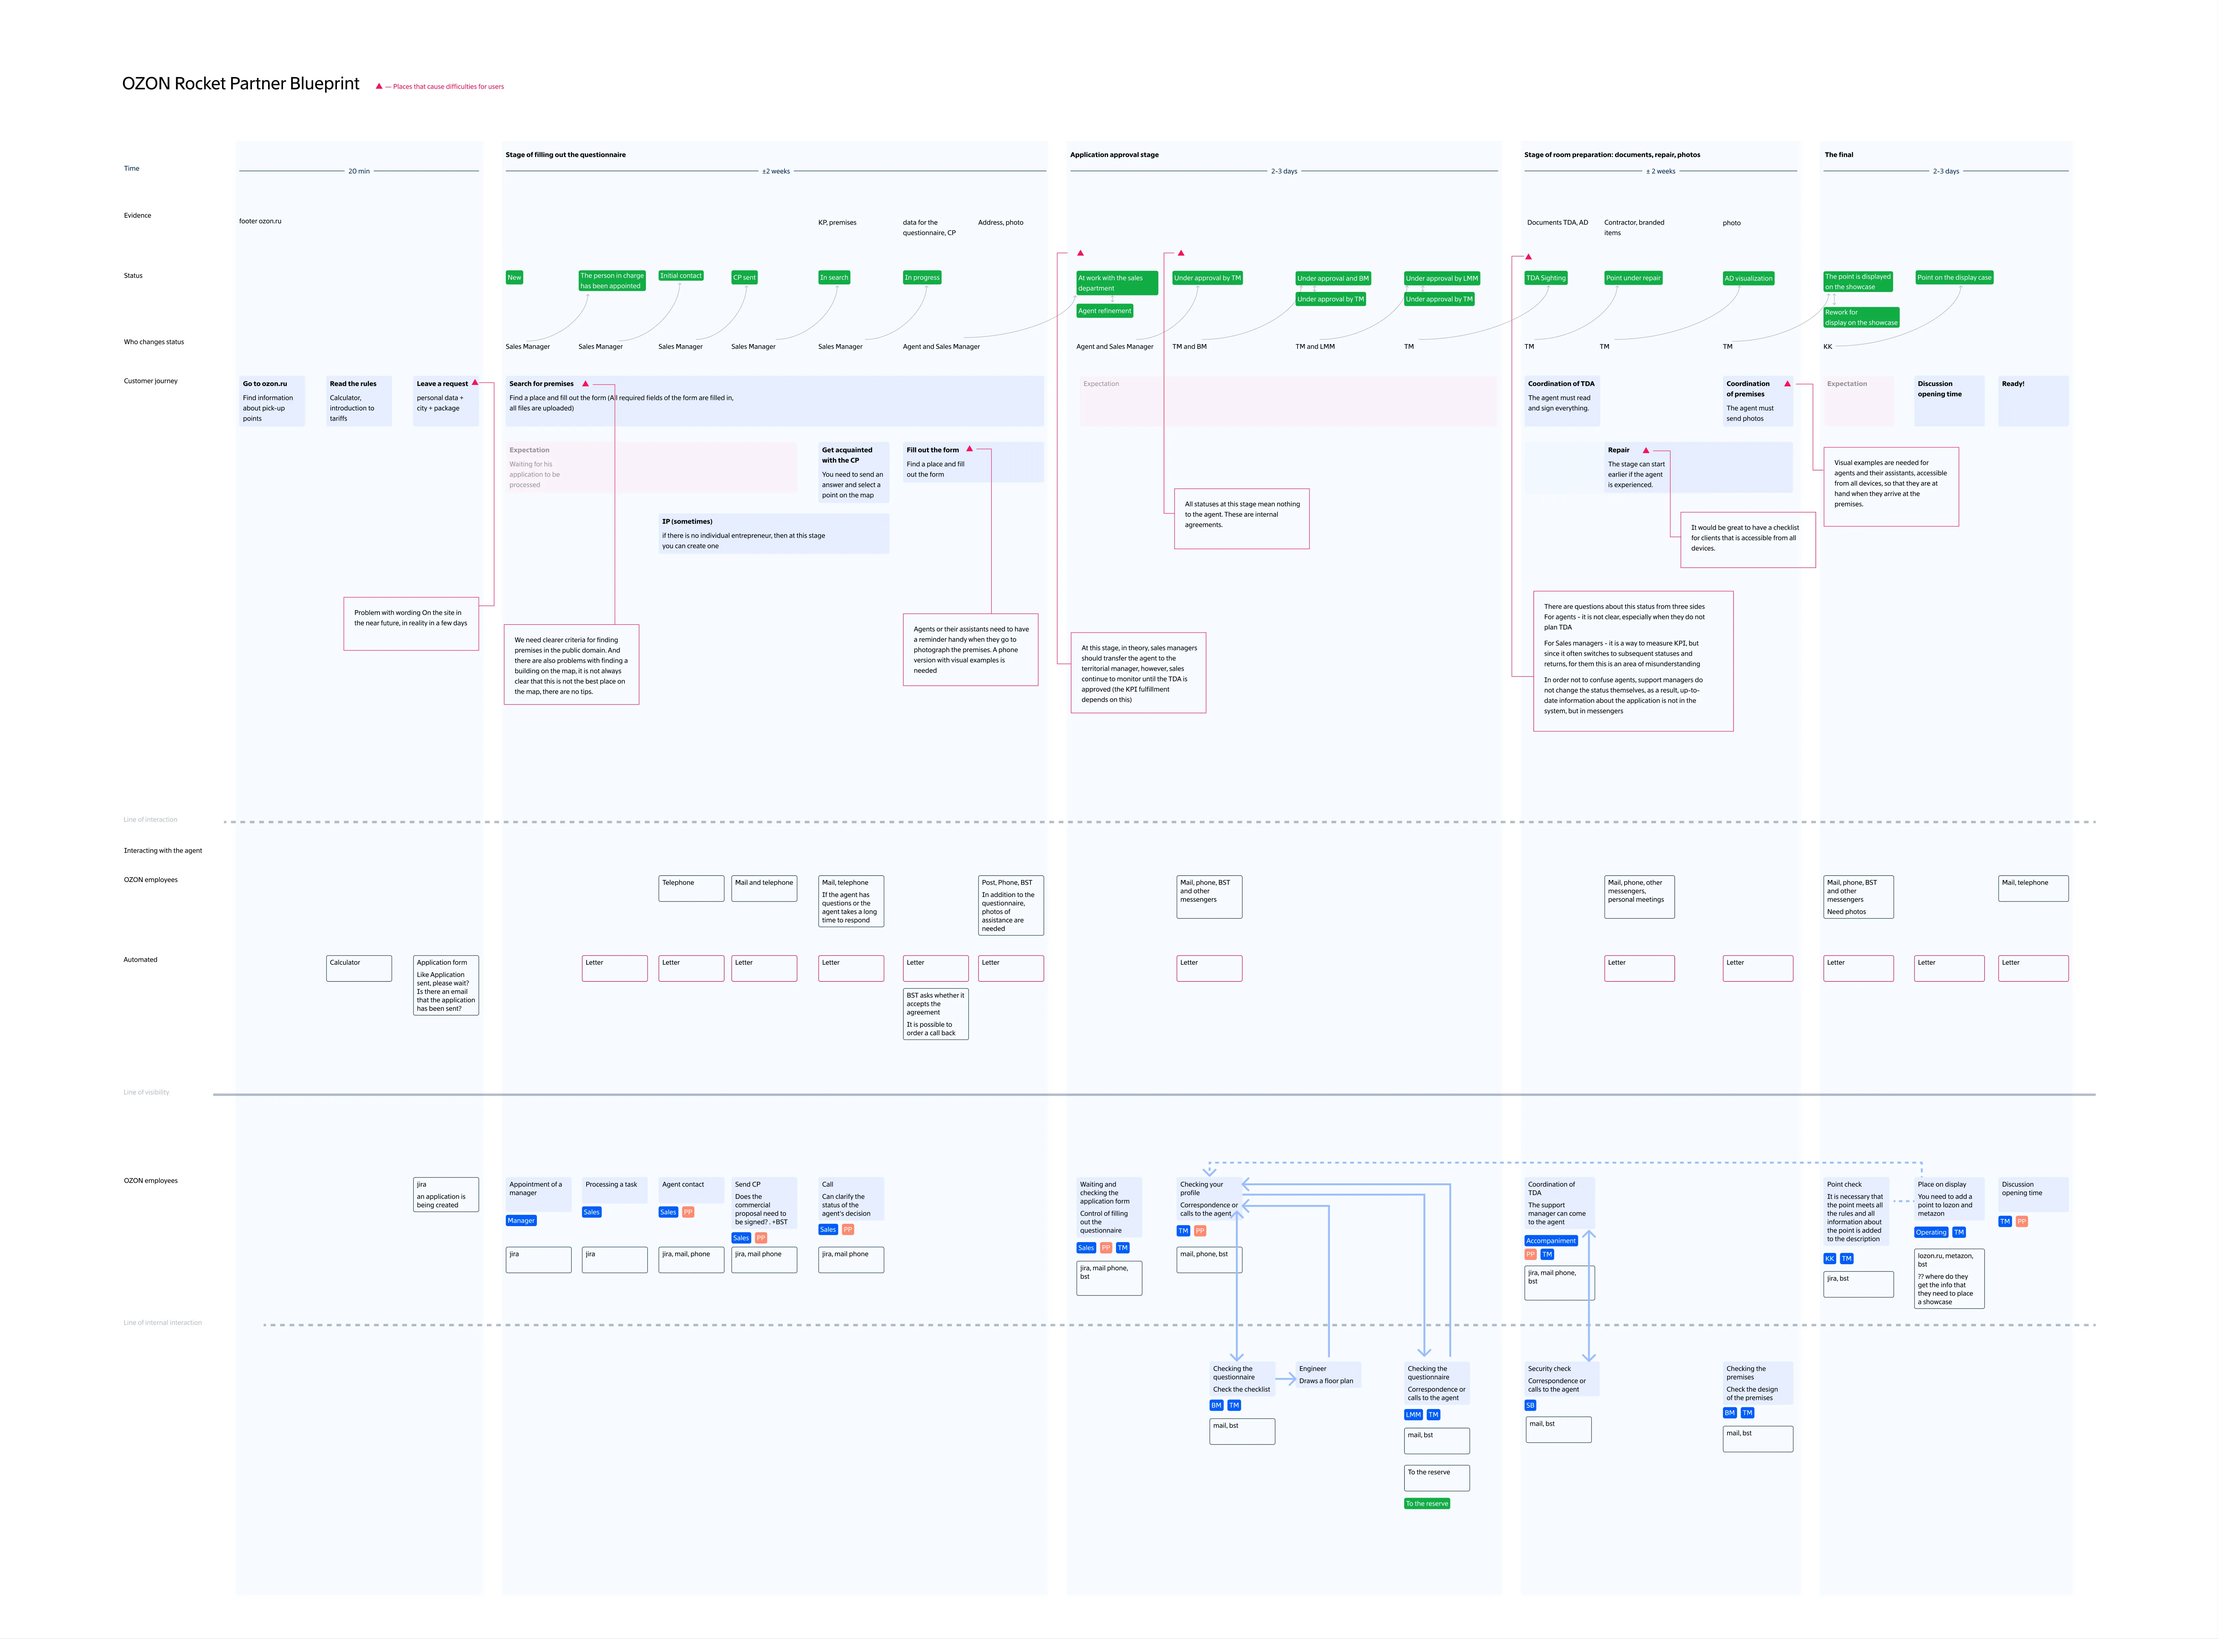
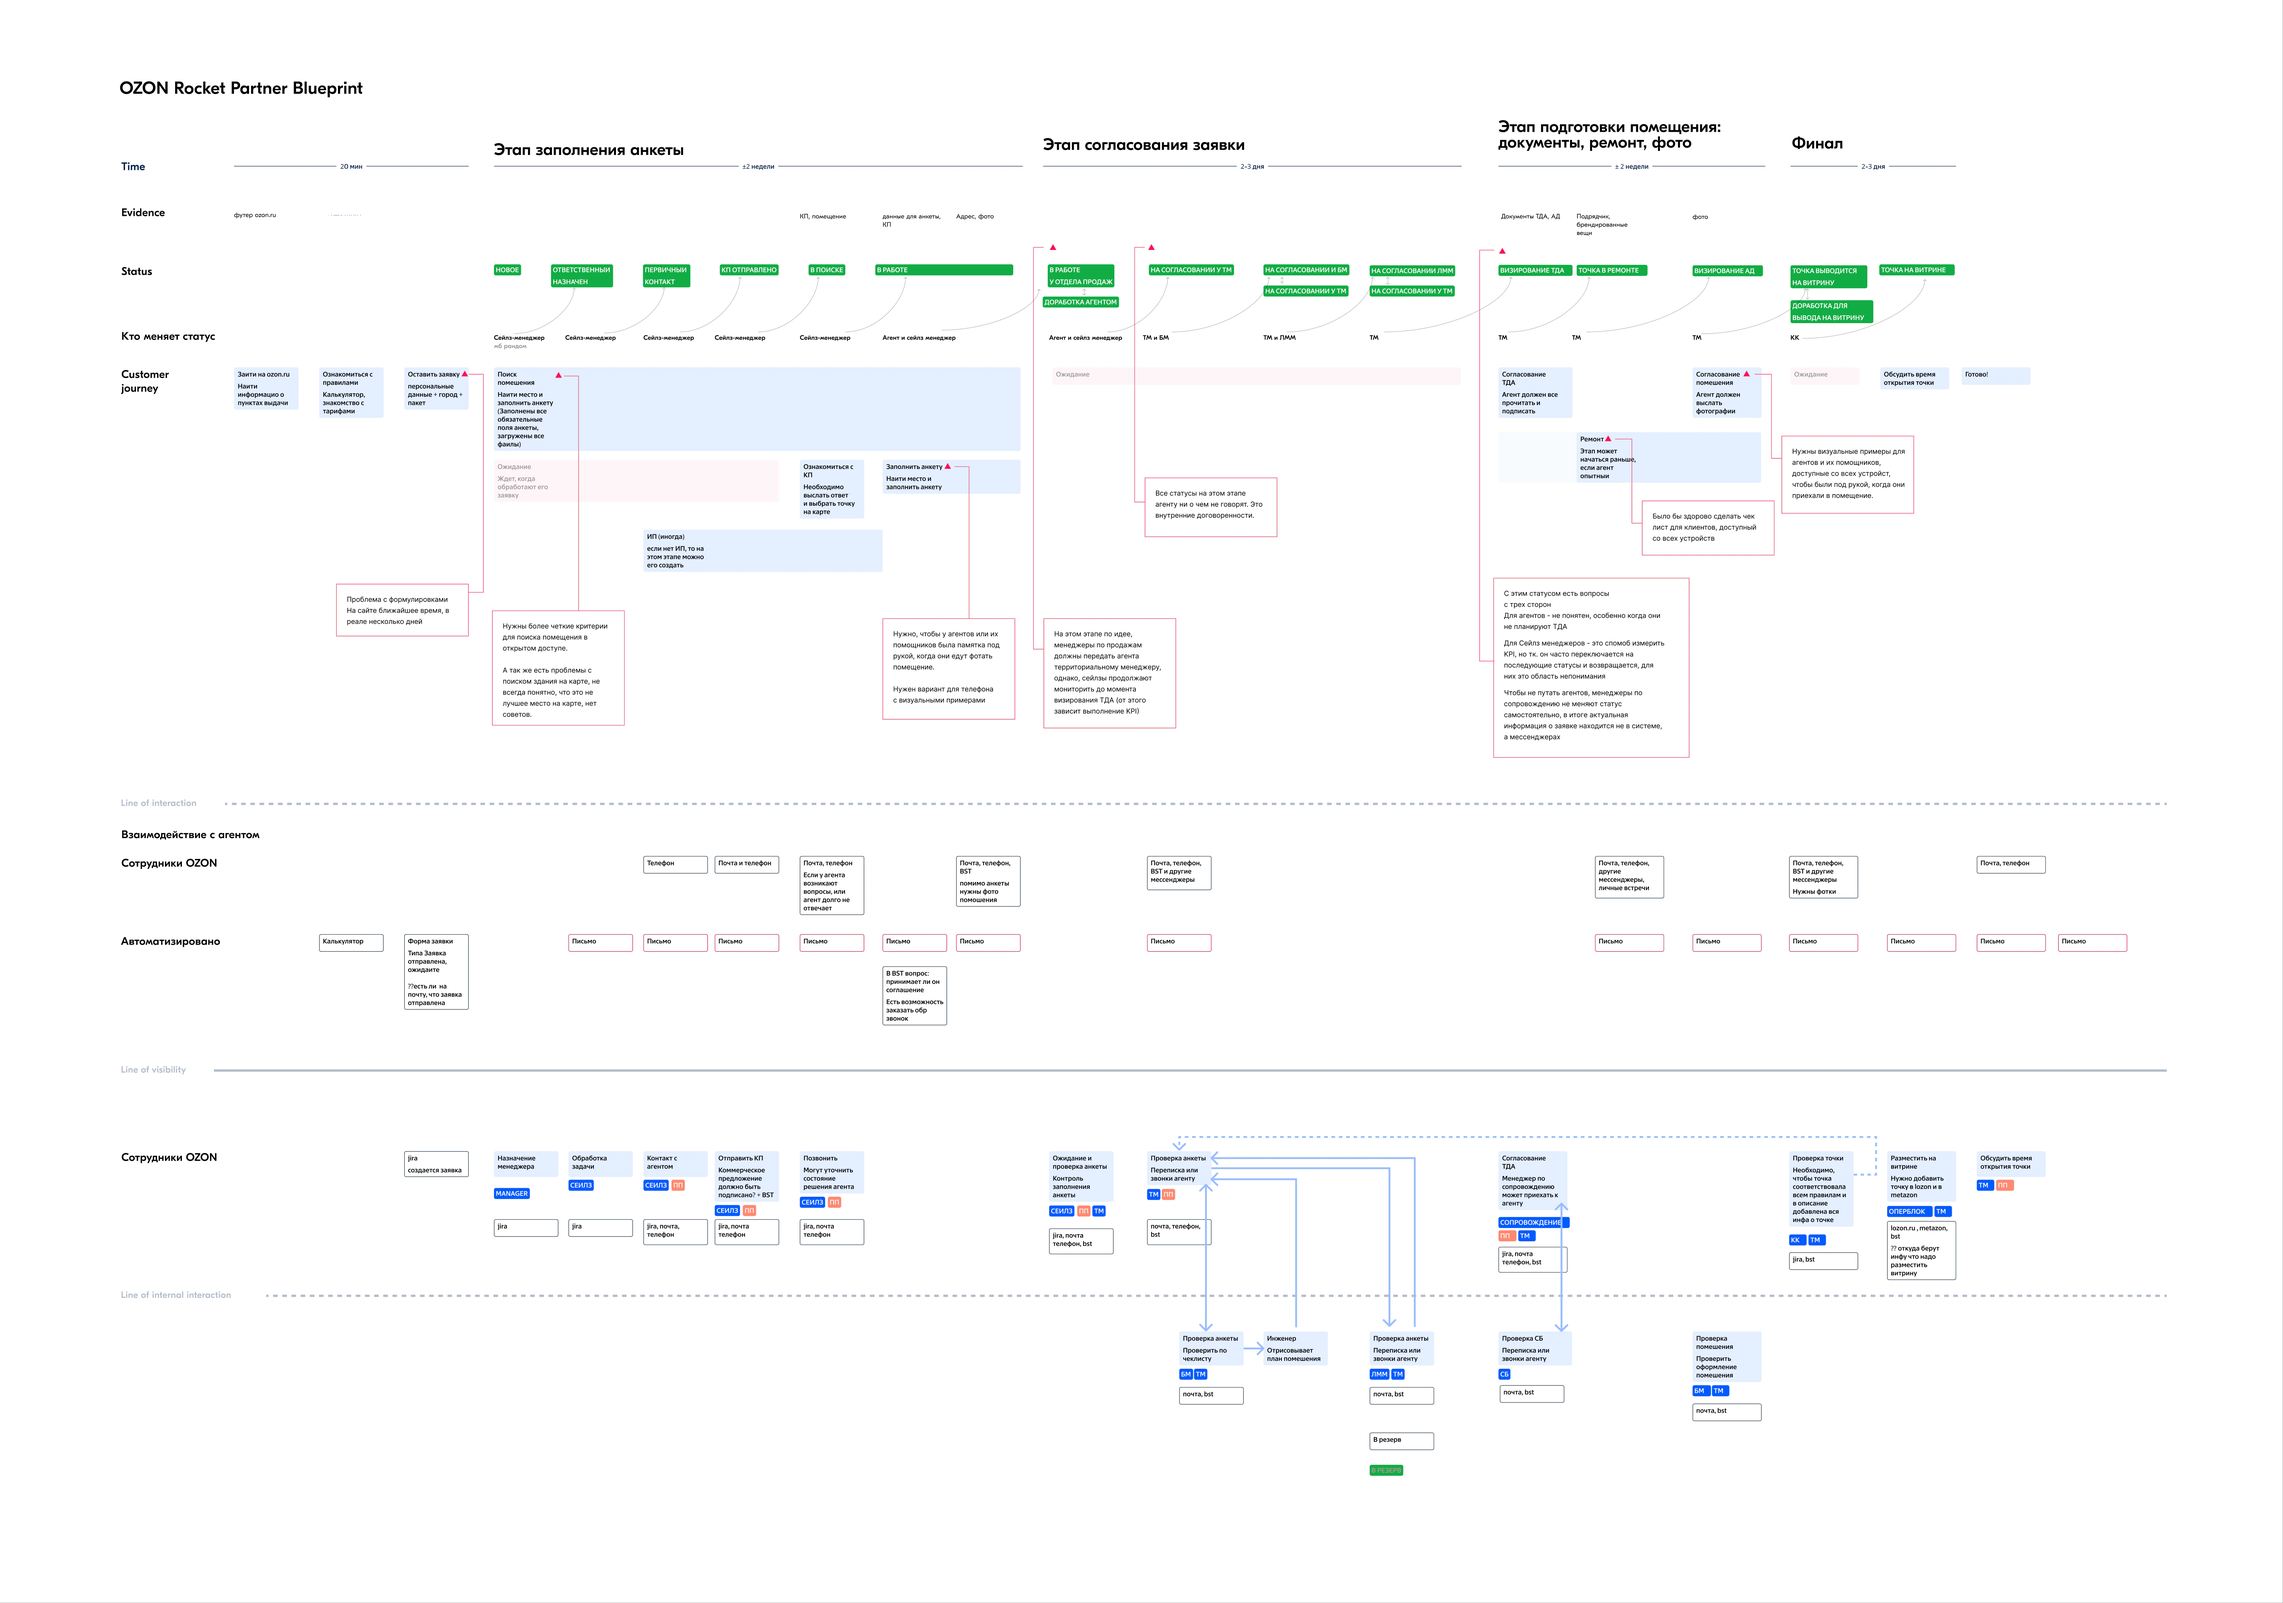
feat(ozon): Open the Russian Service Blueprint from the Research preview

diff --git a/cases/ozon-pickup-point.html b/cases/ozon-pickup-point.html
@@ -69,7 +69,7 @@
         </div>
         <figure class="ozon-research__figure">
           <a class="ozon-research__link" href="../img/ozon/service-blueprint.webp" target="_blank" rel="noopener">
-            <img src="../img/ozon/blueprint-preview.webp" width="304" height="214" alt="Service Blueprint of the pickup point launch process: customer journey stages, statuses, OZON employee actions and marked pain points. Opens the full-size map in a new tab." loading="lazy">
+            <img src="../img/ozon/blueprint-preview.webp" width="304" height="214" alt="Service Blueprint of the pickup point launch process, in Russian: customer journey stages, statuses, OZON employee actions and marked pain points. Opens the full-size map in a new tab." loading="lazy">
           </a>
           <figcaption class="ozon-caption">Pain points and&nbsp;process bottlenecks</figcaption>
           <img class="ozon-arrow ozon-arrow--research-1" src="../img/ozon/arrow-research-1.svg" width="142" height="147" alt="">
